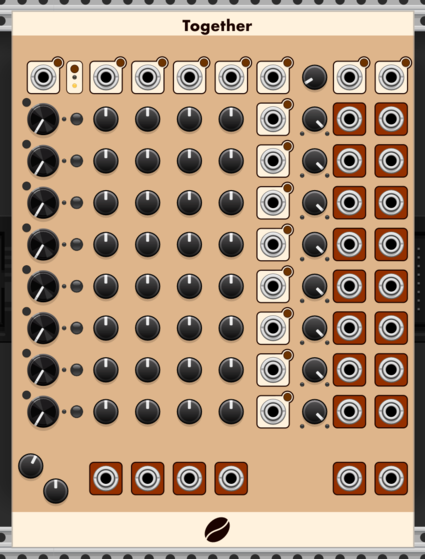
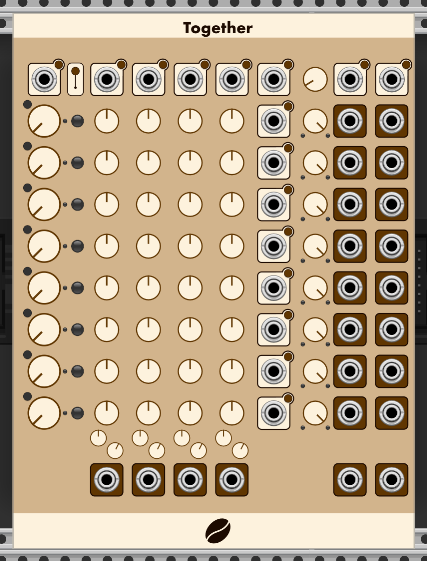
Updates to Together

diff --git a/src/Together.cpp b/src/Together.cpp
@@ -53,8 +53,6 @@ struct Together : Module {
 		ENUMS(L_STEPACTIVE,NUM_ROWS),
 		ENUMS(L_TRIGHEADS,NUM_ROWS),
 		ENUMS(L_TRIGTAILS,NUM_ROWS),
-		L_RNDMODE,
-		L_NUDGEMODE,
 		LIGHTS_LEN
 	};
 
@@ -70,7 +68,6 @@ struct Together : Module {
 	dsp::BooleanTrigger divNudgeButton;
 	dsp::BooleanTrigger divLockButton[NUM_ROWS];
 	dsp::BooleanTrigger nudgeButton;
-	dsp::BooleanTrigger nudgemodeButton;
 	
 	dsp::SchmittTrigger nudgeTrigger;
 	dsp::SchmittTrigger clockTrigger;
@@ -89,7 +86,6 @@ struct Together : Module {
 	bool pulse;
 	float range=1.f;
 	float nudgev=0.05f;
-	bool modeToggleReady=true;
 	int nudgeMode = RANDOM;
 
 	Together() {
@@ -115,7 +111,7 @@ struct Together : Module {
 		configInput(I_NUDGE, "Nudge Trig");
 		configButton(P_NUDGE_BUTTON,"Manual Nudge");
 		configParam(P_NUDGEV, 0.f, 1.f, 0.05f, "Nudge Amount");
-		configButton(P_nudgeMode,"Nudge/RND Mode");
+		configSwitch(P_nudgeMode,0,1,0,"Mode",{"Nudge","Random"});
 
 		//scale and offset
 		configParam(P_SCALE, -5, 5, 1.f, "Scale");
@@ -134,12 +130,12 @@ struct Together : Module {
 		configOutput(O_ORGATE, "Global out gate");
 
 		lowPriority.division=4;
-		lights[L_NUDGEMODE].setBrightness(0);
-		lights[L_RNDMODE].setBrightness(1);
 	}
 
 	float nudge(float currentValue, float rndAmmount, float nudgeAmmount, float lo, float hi, int mode) {
 		float newValue;
+		DEBUG("Nedge mode : %d",nudgeMode);
+		DEBUG("Param : %d",params[P_RNUDGE_BUTTON].getValue());
 		if(nudgeMode==NUDGE) {
 			float v=(random::uniform()>0.5) ? currentValue - nudgeAmmount : currentValue + nudgeAmmount;
 			newValue=clamp(v,lo,hi);
@@ -173,7 +169,7 @@ struct Together : Module {
 					//not the locked steps
 					if(!params[P_DIVLOCK + row].getValue()) {
 						float currentValue=params[P_DIVS + row].getValue();
-						params[P_DIVS + row].setValue(int(nudge(currentValue,16,1,0,16,nudgeMode)));
+						params[P_DIVS + row].setValue(int(nudge(currentValue,64,1,0,64,nudgeMode)));
 					}
 				}
 			}
@@ -212,20 +208,7 @@ struct Together : Module {
 
 
 			// Mode toggle
-			if ( modeToggleReady && nudgemodeButton.process(params[P_nudgeMode].getValue())) {
-				if(nudgeMode==NUDGE) {
-					nudgeMode=RANDOM;
-					lights[L_NUDGEMODE].setBrightness(0);
-					lights[L_RNDMODE].setBrightness(1);
-				} else {
-					nudgeMode=NUDGE;
-					lights[L_RNDMODE].setBrightness(0);
-					lights[L_NUDGEMODE].setBrightness(1);
-				}
-				modeToggleReady=false;
-			} else {
-				modeToggleReady=true;
-			}
+			nudgeMode=params[P_nudgeMode].getValue();
 
 			// nudge
 			if (nudgeButton.process(params[P_NUDGE_BUTTON].getValue()) | nudgeTrigger.process(inputs[I_NUDGE].getVoltage(), 0.1f, 2.f)) {
@@ -260,7 +243,7 @@ struct Together : Module {
 					lights[L_STEPACTIVE + i].setBrightness(0);
 				} else {
 					cycleResult[i] = ((seqCount % v)==0) ? true : false;
-					lights[L_STEPACTIVE +i].setBrightness(1);
+					lights[L_STEPACTIVE + i].setBrightness(1);
 				}
 			}
 
@@ -340,24 +323,24 @@ struct TogetherWidget : ModuleWidget {
 		for(int i=0; i<NUM_ROWS; i++){
 			x=lx;
 			y=yoff+(i*s);
-			addParam(createParamCentered<RoundSmallBlackKnob>(mm2px(Vec(x, y)), module, Together::P_DIVS + i));
+			addParam(createParamCentered<CoffeeKnob8mm>(mm2px(Vec(x, y)), module, Together::P_DIVS + i));
 			addParam(createParamCentered<CoffeeTinyButtonLatch>(mm2px(Vec(x-4, y-4)), module, Together::P_DIVLOCK + i ));
 			addChild(createLightCentered<CoffeeTinySimpleLight<OrangeLight>>(mm2px(Vec(x-4, y-4)), module, Together::L_STEPLOCK + i));
 			x=5+lx+(s*1);
-			addParam(createParamCentered<Trimpot>(mm2px(Vec(x, y)), module, Together::P_G1 + i));
+			addParam(createParamCentered<CoffeeKnob6mm>(mm2px(Vec(x, y)), module, Together::P_G1 + i));
 			x=5+lx+(s*2);
-			addParam(createParamCentered<Trimpot>(mm2px(Vec(x, y)), module, Together::P_G2 + i));		
+			addParam(createParamCentered<CoffeeKnob6mm>(mm2px(Vec(x, y)), module, Together::P_G2 + i));		
 			x=5+lx+(s*3);
-			addParam(createParamCentered<Trimpot>(mm2px(Vec(x, y)), module, Together::P_G3 + i));
+			addParam(createParamCentered<CoffeeKnob6mm>(mm2px(Vec(x, y)), module, Together::P_G3 + i));
 			x=5+lx+(s*4);
-			addParam(createParamCentered<Trimpot>(mm2px(Vec(x, y)), module, Together::P_G4 + i));
+			addParam(createParamCentered<CoffeeKnob6mm>(mm2px(Vec(x, y)), module, Together::P_G4 + i));
 
 			x=5+lx+(s*5);
 			addInput(createInputCentered<CoffeeInputPortButton>(mm2px(Vec(x, y)), module, Together::I_RowNudgeTrig + i));
 			addParam(createParamCentered<CoffeeTinyButton>(mm2px(Vec(x+3.5, y-3.5)), module, Together::P_RNUDGE_BUTTON + i ));
 
 			x=5+lx+(s*6);
-			addParam(createParamCentered<Trimpot>(mm2px(Vec(x, y)), module, Together::P_RTRIGPROB + i));
+			addParam(createParamCentered<CoffeeKnob6mm>(mm2px(Vec(x, y)), module, Together::P_RTRIGPROB + i));
 			addChild(createLightCentered<TinyLight<RedLight>>(mm2px(Vec(x-3, y+3.5)), module, Together::L_TRIGTAILS + i));
 			addChild(createLightCentered<TinyLight<GreenLight>>(mm2px(Vec(x+3, y+3.5)), module, Together::L_TRIGHEADS + i));
 
@@ -381,9 +364,9 @@ struct TogetherWidget : ModuleWidget {
 		//nudge vs rnd switch
 		y=16;
 		x=lx+7.5;
-		addParam(createParamCentered<CoffeeButtonVertIndicator>(mm2px(Vec(x, y)), module, Together::P_nudgeMode));
-		addChild(createLightCentered<TinyLight<OrangeLight>>(mm2px(Vec(x, y)), module, Together::L_NUDGEMODE));
-		addChild(createLightCentered<TinyLight<OrangeLight>>(mm2px(Vec(x, y+2)), module, Together::L_RNDMODE));
+		addParam(createParamCentered<CoffeeSwitch2PosVert>(mm2px(Vec(x, y)), module, Together::P_nudgeMode));
+		//addChild(createLightCentered<TinyLight<OrangeLight>>(mm2px(Vec(x, y)), module, Together::L_NUDGEMODE));
+		//addChild(createLightCentered<TinyLight<OrangeLight>>(mm2px(Vec(x, y+2)), module, Together::L_RNDMODE));
 
 
 		// group inputs
@@ -400,7 +383,7 @@ struct TogetherWidget : ModuleWidget {
 		addInput(createInputCentered<CoffeeInputPortButton>(mm2px(Vec(x, y)), module, Together::I_NUDGE));
 		addParam(createParamCentered<CoffeeTinyButton>(mm2px(Vec(x+3.5, y-3.5)), module, Together::P_NUDGE_BUTTON));
 		x=lx+(s*5)+s+5;		
-		addParam(createParamCentered<Trimpot>(mm2px(Vec(x, y)), module, Together::P_NUDGEV));
+		addParam(createParamCentered<CoffeeKnob6mm>(mm2px(Vec(x, y)), module, Together::P_NUDGEV));
 
 		// group outputs
 		for(int i=0; i<NUM_GROUPS; i++){
@@ -413,8 +396,8 @@ struct TogetherWidget : ModuleWidget {
 		//scale and offset
 		x=lx;
 		y=112;
-		addParam(createParamCentered<Trimpot>(mm2px(Vec(x-3, y-3)), module, Together::P_SCALE));		
-		addParam(createParamCentered<Trimpot>(mm2px(Vec(x+3, y+3)), module, Together::P_OFFSET));		
+		addParam(createParamCentered<CoffeeKnob4mm>(mm2px(Vec(x-3, y-3)), module, Together::P_SCALE));		
+		addParam(createParamCentered<CoffeeKnob4mm>(mm2px(Vec(x+3, y+3)), module, Together::P_OFFSET));		
 
 		//global or trig and gate
 		y=112;

diff --git a/CHANGELOG.md b/CHANGELOG.md
@@ -16,5 +16,8 @@
     * Bug Fixes
     * Cosmetic changes
   * Update module Together
-    * Bug fixes
+    * Fixed bug with random
+    * Added Scale and Offset for each group
+    * Exnad range of dividers to 64.
+    * Change mode to a switch
     * Cosmetic changes
